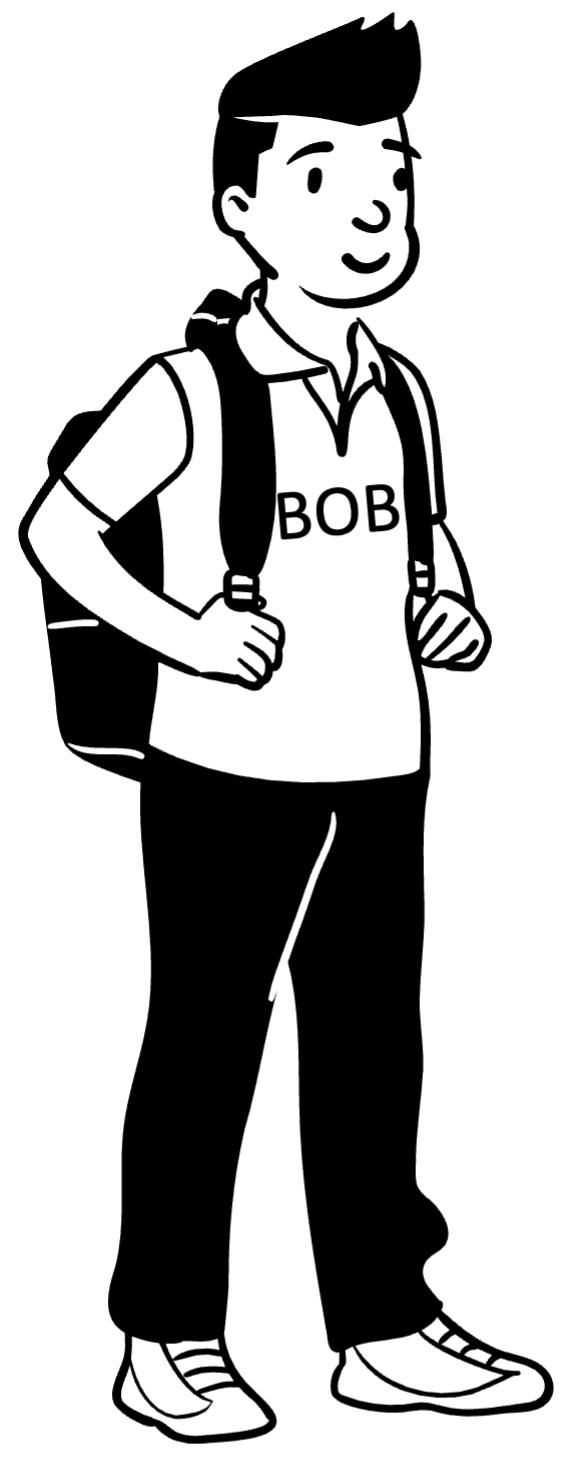
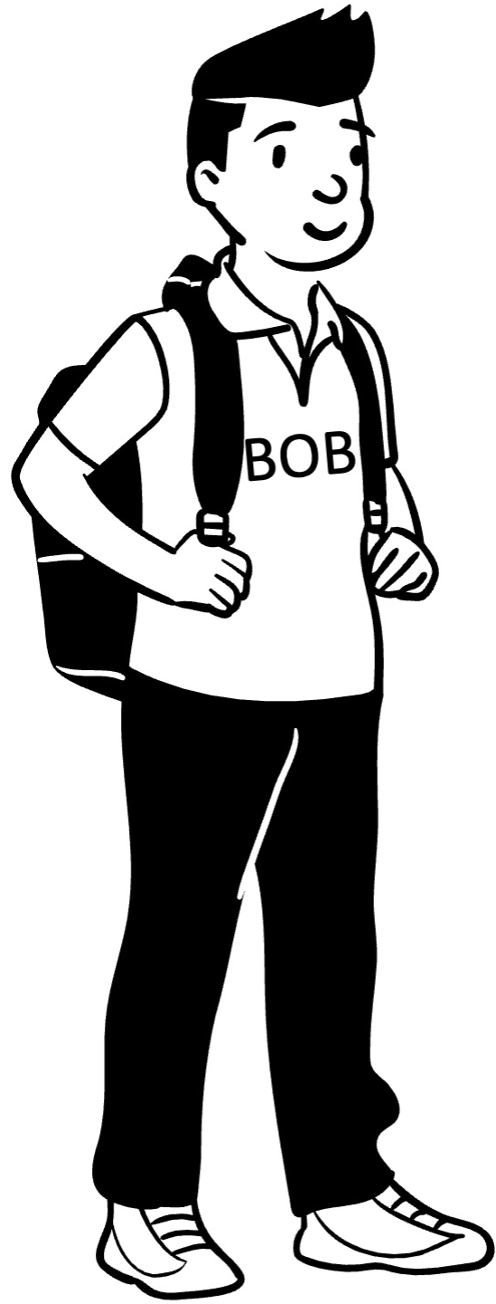
updated alice+bob images

Changed region(s): [[0.0302, 0.0, 0.998, 1.0], [0.2117, 0.6442, 0.2722, 0.7669], [0.5141, 0.0, 0.5444, 0.0307]]

diff --git a/src/pages/StartPage.js b/src/pages/StartPage.js
@@ -7,16 +7,8 @@ import { FontAwesomeIcon } from "@fortawesome/react-fontawesome";
 import { faArrowRightLong } from "@fortawesome/free-solid-svg-icons";
 
 function StartPage() {
-  const [Counter, setCounter] = useState(1);
-
   return (
-    <div
-      className="column-container"
-      onClick={() => {
-        setCounter(Counter + 1);
-        // addStatement(Counter, "addStatement");
-      }}
-    >
+    <div className="column-container">
       <div className="column">
         <img src={bob} alt="bob" />
       </div>
@@ -35,19 +27,12 @@ function StartPage() {
             <div className="m-5">Hast Du Lust mitzumachen?</div>
           </div>
         </div>
-        {/* <div class="box sbbob">
-          {" "}
-          Ich bin neu in Tübingen und will wissen, wie hoch die Miete für ein
-          Studierendenzimmer ist!
-        </div>
-        <div class="box sbalice"> Hast Du Lust mitzumachen? </div> */}
         <div>
           <Link to="/dialogue">
             <div
               className="absolute hover:cursor-pointer bg-green-700 rounded-3xl bottom-8 right-8 pl-16 pr-16 shadow-2xl shadow-green-700 opacity-80 text-white"
               style={{ fontSize: "50pt" }}
             >
-              {/* <button className="btn btn-lg text-4xl text-white btn-secondary">WEITER</button> */}
               <FontAwesomeIcon icon={faArrowRightLong} />
             </div>
           </Link>

diff --git a/src/pages/Dialogue.css b/src/pages/Dialogue.css
@@ -9,66 +9,8 @@
     text-align: center;
 }
 
-
 img {
     padding-top: 10%; 
     padding-left: 10%;
     height: 80%;
 }
-
-.box_dialogue {
-    width: 95%;
-    margin: 5% auto;
-    padding: 3%;
-    text-align: center;
-    font-weight: 500;
-    font-size: 150%;
-    color: rgb(0, 0, 0);
-    position:relative;
-  }
-
-.box_dialogue.sbbob {
-    background: #edccc6;
-}
-
-.box_dialogue.sbalice {
-    background: #badfde;
-}
-.sbbob:before {
-    content: "";
-    width: 0px;
-    height: 0px;
-    position: absolute;
-    border-left: 10px solid transparent;
-    border-right: 10px solid #edccc6;
-    border-top: 10px solid #edccc6;
-    border-bottom: 10px solid transparent;
-    left: -19px;
-    top: 20px;
-}
-
-.sbalice:before {
-    content: "";
-    width: 0px;
-    height: 0px;
-    position: absolute;
-    border-left: 10px solid #badfde;
-    border-right: 10px solid transparent;
-    border-top: 10px solid #badfde;
-    border-bottom: 10px solid transparent;
-    right: -20px;
-    top: 20px;
-  }
-
-.weiterbutton {
-    padding: 1%;
-    background-color: lightgrey;
-    position:absolute;
-    font-size: 150%;
-    bottom: 0;
-    right: 9%;
-    margin-bottom: 1cm;
-    border-radius: 8px;
-    box-shadow: 0 4px 8px 0 rgba(57, 56, 56, 0.2), 0 4px 8px 0 rgba(92, 91, 91, 0.19);
-}
-

diff --git a/src/pages/StartPage.css b/src/pages/StartPage.css
@@ -7,6 +7,7 @@ img {
 .imgalice {
     padding-top: 10%; 
     padding-left: 31%;
+    right: 0;
     height: 80%;
 }
 
@@ -20,38 +21,4 @@ img {
     font-size: 150%;
     color: rgb(0, 0, 0);
     position:relative;
-  }
-
-.box.sbbob {
-    background: #edccc6;
-}
-
-.box.sbalice {
-    background: #badfde;
-}
-
-.sbbob:before {
-    content: "";
-    width: 0px;
-    height: 0px;
-    position: absolute;
-    border-left: 10px solid transparent;
-    border-right: 10px solid #edccc6;
-    border-top: 10px solid #edccc6;
-    border-bottom: 10px solid transparent;
-    left: -19px;
-    top: 20px;
-}
-
-.sbalice:before {
-    content: "";
-    width: 0px;
-    height: 0px;
-    position: absolute;
-    border-left: 10px solid #badfde;
-    border-right: 10px solid transparent;
-    border-top: 10px solid #badfde;
-    border-bottom: 10px solid transparent;
-    right: -20px;
-    top: 20px;
   }

diff --git a/src/screens/Tutorial.js b/src/screens/Tutorial.js
@@ -15,7 +15,7 @@ import Taskbar from "../taskbar/taskbar";
 import Map from "../map/Map";
 import Tree from "../tree/Tree";
 
-import bob from "../assets/bob.png";
+import bob_mirrored from "../assets/bob_mirrored.png";
 // import hand from "../assets/hand_emoji.png";
 import Xarrow from "react-xarrows";
 import { get } from "lodash";
@@ -83,7 +83,7 @@ function Tutorial({
       <TreeColumn>
         <div>
           <div className="imgbobsmall">
-            <img id="bob" src={bob} alt="bob" />
+            <img id="bob" src={bob_mirrored} alt="bob_mirrored" />
           </div>
 
           {Counter >= 3 && (
